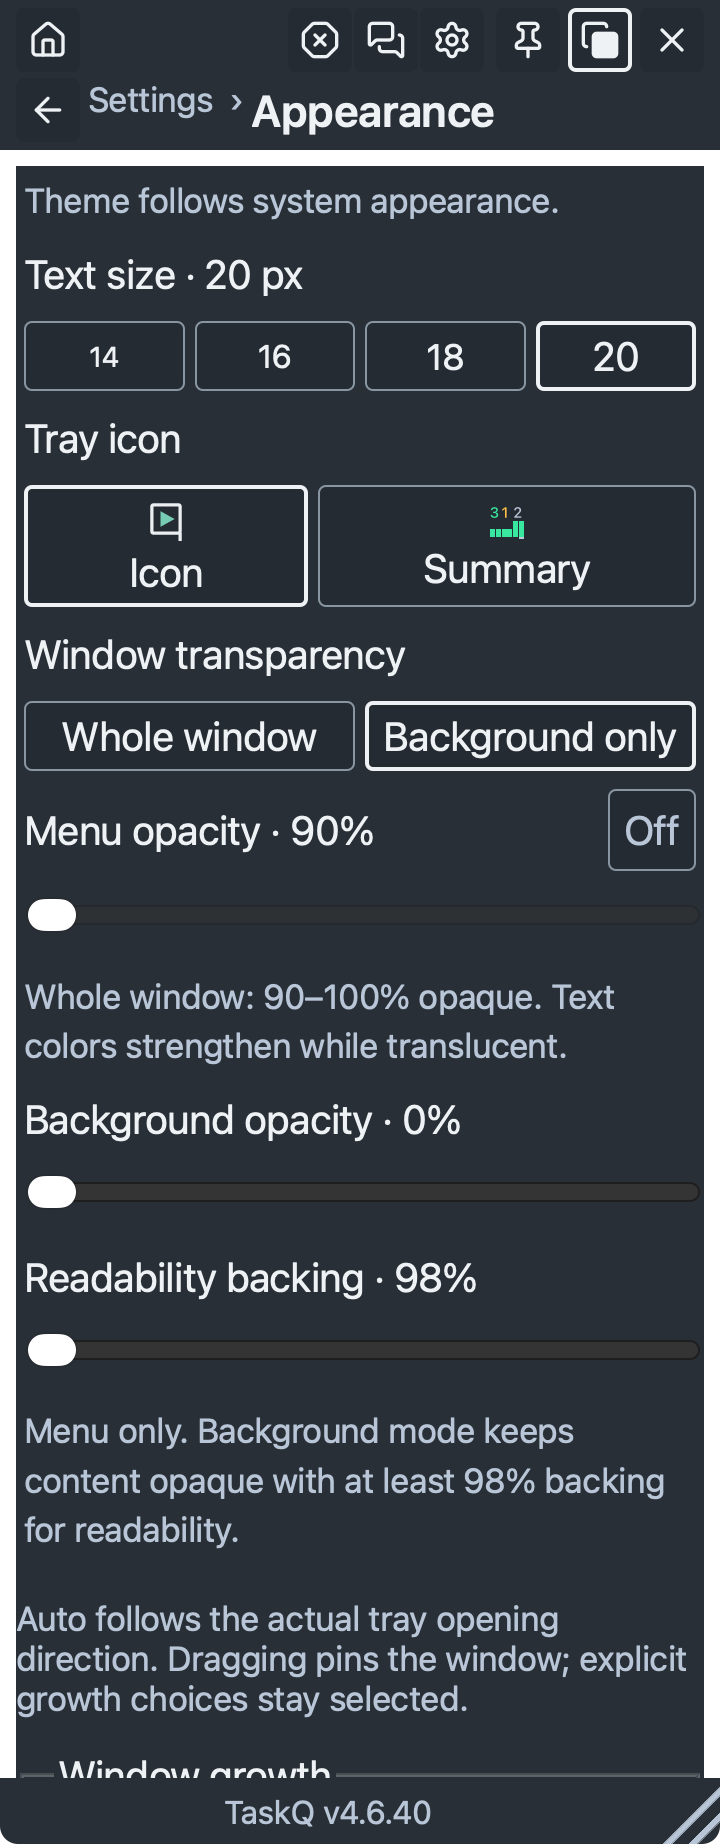
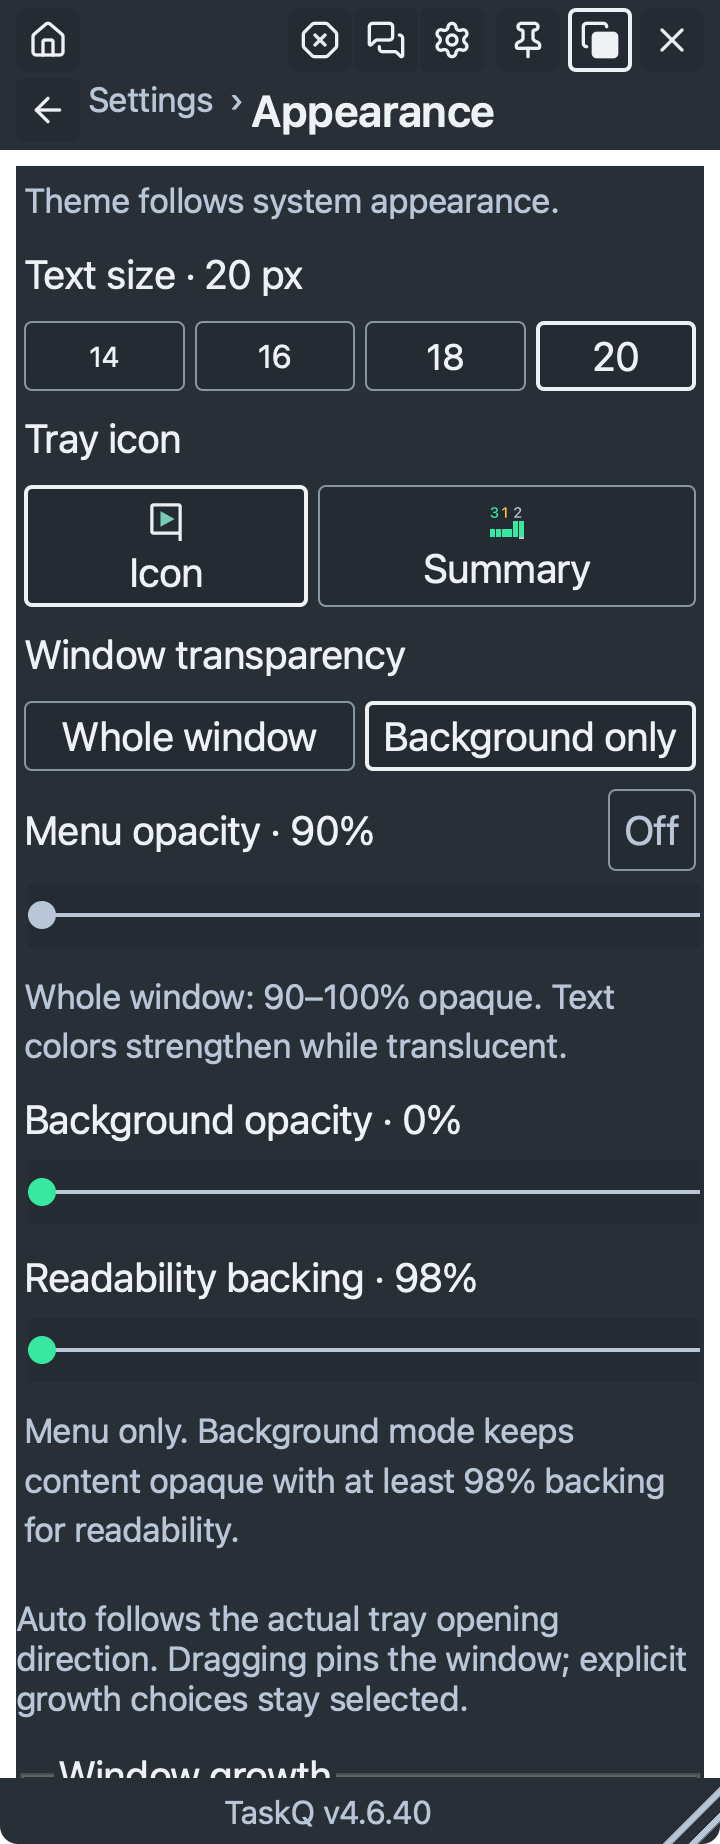
docs(appearance): record native contrast and bounded worker checks
Task: https://github.com/taskqorg/taskq/issues/1813

Changed region(s): [[0.0306, 0.6182, 0.1222, 0.68], [0.0306, 0.4637, 0.1222, 0.5255], [0.0306, 0.711, 0.1222, 0.7419]]

diff --git a/docs/design/evidence/1813/verification.md b/docs/design/evidence/1813/verification.md
@@ -2,7 +2,7 @@
 
 The owner selected [AA-safe backing](https://github.com/taskqorg/taskq/issues/1813#issuecomment-6493358099). [Design comparison](design.md) covers blur, backing, shadow and native materials per OS. R13 is applied through the root contract link, new M1.2 and the linked visual treatment; R1–R13 and M1.1 behavior are preserved.
 
-UI source candidate: `c32296d1575721e05672371ebb16f252f43519f9`, rebased on `b8c05120f9385e8a7753a9a780cff0a984394a50`. The final UI source revision and native capture are recorded below. Environment: macOS 27.0.1 arm64, Node 22.18.0, Rust/Cargo 1.98.1, Playwright Chromium headless shell through `tests/browser.cjs`. Fixtures are invented; they perform no live task or PM operation.
+Final UI source: `c802f8973cc8bedfb4eea952abe765c932b97714`, rebased on `93877cc0ced95a0858dc72d829ba51337f33df59`. The final UI source revision and native capture are recorded below. Environment: macOS 27.0.1 arm64, Node 22.18.0, Rust/Cargo 1.98.1, Playwright Chromium headless shell through `tests/browser.cjs`. Fixtures are invented; they perform no live task or PM operation.
 
 ## Failure before and protection after
 
@@ -22,6 +22,12 @@ UI source candidate: `c32296d1575721e05672371ebb16f252f43519f9`, rebased on `b8c
 | Existing browser behavior | `node tests/tray-opacity.browser.cjs` | Pass: keyboard/Off IPC, strengthened whole-window palette, route adoption and opaque Settings |
 | Shared assets | `node tests/project-blocks.test.cjs`; `node tests/task-workspace.test.cjs` | Pass: source-provenance manifests refreshed for intended changes; existing assertions retained |
 
+## Canonical gate and remaining checks
+
+`python3 scripts/check.py --base 93877cc0ced95a0858dc72d829ba51337f33df59` completed in 185.169 s on this Mac with a warm dependency cache. Result: **sandbox-blocked**, not Pass: 592 Rust tests passed, 18 failed in worker-bound host-policy/lifecycle fixtures, 33 were ignored. Observed refusals include `a worker cannot change host policy`, `a worker cannot install the host service`, `a worker cannot restart the host service or request Stop` and `a worker cannot dispatch host Stop`. The three opacity tests and the R8 trace/size check pass. No permission or worker-role override was applied. Per § 7, the acceptance gate remains merge-result CI; the local failure is not presented as a green gate.
+
+Because the Rust failure stops `check.py` before its remaining commands, those checks ran separately: all 26 `tests/*.test.cjs` files, screenshot-manifest checks, release-tag/exact-source checks and both transparency browser instruments passed. The component run first caught the finding-composer manifest's transitive pin of the changed project-blocks provenance file; that intended dependency hash was refreshed and the same run passed. No guarding assertion was changed. Offline selftest in an isolated install passed 99 golden traces, formats and private telemetry capture; no board read.
+
 ## Visual review
 
 Generate the six browser images with `TASKQ_BACKGROUND_SHOTS=docs/design/evidence/1813/browser node tests/tray-background.browser.cjs`. Four home captures use minimum background opacity (0%) and minimum backing (98%): both themes over invented busy light and dark wallpapers. Two Appearance captures show the controls. The wallpaper is inside the browser document, behind the actual bundled menu; these are browser composition evidence, not desktop composition proof.
@@ -37,9 +43,17 @@ The four home captures were inspected at actual size. Required text, state glyph
 
 Ratios include both text and semantic SVG/control samples and use independently adverse backdrop pixels, rather than rounding a failing value up. The executable guard uses unrounded values. [Light Appearance](browser/light-appearance.png) and [dark Appearance](browser/dark-appearance.png) retain the same minimum settings.
 
+## Native range-cue correction
+
+WKWebView initially rendered the enabled light-theme range thumb white despite the existing `accent-color`. The preserved [before image](native/before-light-range.png) measures 1.08:1 against the adjacent backing, below the 3:1 control-cue requirement. The fix paints opaque Work-colored enabled thumbs, Secondary-colored disabled thumbs and Secondary tracks, preserving the accepted palette and disabled semantics.
+
+Final WKWebView captures: [light](native/light-appearance-20.png) and [dark](native/dark-appearance-20.png). The same thumb-core sample now measures 4.83:1 light / 8.99:1 dark. All sampled thumb pixels have alpha 255. [Pixel values and coordinates](native/range-contrast.json) record source-over composition against the adverse wallpaper and the WCAG formula; [before provenance](native/before-capture.json) preserves the failing artifact. This qualifies these native range cues, not every native text or icon pixel. The affected review set contains nine images: six browser captures, two final WKWebView captures and one distinct failing native capture.
+
+The first canonical attempt stopped before tests because the added Product link changed an unnamed existing rule. Product is now byte-for-byte unchanged from the base; the root preamble links the new M1.2 through the existing menu reference. The rule gate passes without weakening or renaming any existing rule or guarding assertion. The root remains within 300 lines / 60 KiB.
+
 ## Remaining acceptance
 
 - A1 Claude reviewer cross-check: pending the service-spawned reviewer (R3). This worker does not self-certify that review.
-- macOS WKWebView snapshots and README manifest refresh: final capture follows the native range-cue correction.
+- macOS WKWebView page snapshots and README manifest refresh: Pass. Both final 20 px Appearance captures were visually inspected; the saved mode/background/backing values were unchanged. [Capture identity and hashes](native/capture.json).
 - Native desktop composition over actual wallpapers, native interactive mode switching and Windows WebView2: Not tested. A browser result, WKWebView page snapshot or native alpha API readback does not establish those claims (R12).
 - Owner visual acceptance and green merge-result CI: pending. No installed service or application was replaced.
